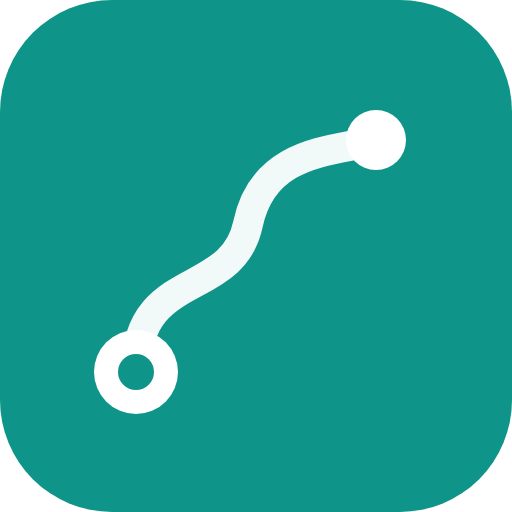
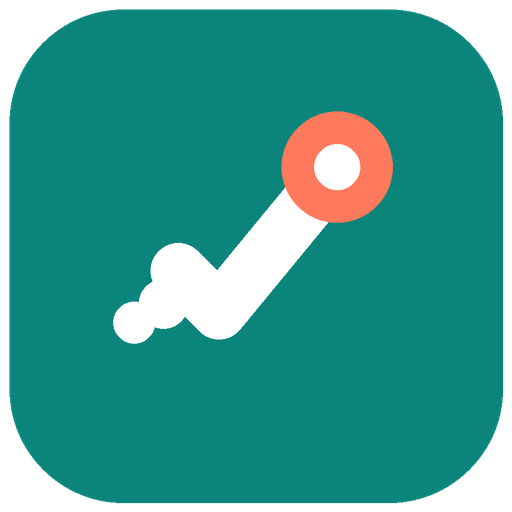
v40: ícono de la app y nombre "Control Driver"
- Nuevo ícono en las 5 resoluciones y las 3 formas de Android (clásico, redondo, adaptativo);
  color fijo (verde de marca), no depende del tema en vivo
- El nombre bajo el ícono pasa de "Rutas-A" a "Control Driver" (strings.xml, capacitor.config.ts);
  el paquete pe.rutasa.app no cambia, para no perder los datos ya instalados
- Todo el texto de la app que el driver lee también dice "Control Driver" (Ajustes, bloqueo,
  PDF, respaldo, "Cargar capturas", "Salir de la app")
- El APK entregado pasa a llamarse Control-Driver-vN.apk

Changed region(s): [[0.1562, 0.1875, 0.8125, 0.8125], [0.0, 0.0, 1.0, 1.0]]

diff --git a/src/app/(app)/ajustes/page.tsx b/src/app/(app)/ajustes/page.tsx
@@ -73,7 +73,7 @@ export default function PaginaAjustes() {
     marcarAbierto();
     setPin("");
     setRepetir("");
-    setMensaje("Listo. La próxima vez que abras Rutas-A te pedirá el PIN.");
+    setMensaje("Listo. La próxima vez que abras Control Driver te pedirá el PIN.");
   }
 
   return (
@@ -170,7 +170,7 @@ export default function PaginaAjustes() {
                 type="button"
                 className="boton-sec"
                 onClick={async () => {
-                  const ok = await activarHuella("Rutas-A");
+                  const ok = await activarHuella("Control Driver");
                   setMensaje(
                     ok
                       ? "Huella activada. El PIN sigue funcionando como respaldo."
@@ -428,7 +428,7 @@ function SeccionSalir() {
       setMensaje("Esto solo cierra la aplicación instalada, no esta pestaña del navegador.");
       return;
     }
-    if (!confirm("¿Seguro que quieres salir de Rutas-A?")) return;
+    if (!confirm("¿Seguro que quieres salir de Control Driver?")) return;
     const { App } = await import("@capacitor/app");
     await App.exitApp();
   }
@@ -441,7 +441,7 @@ function SeccionSalir() {
         </span>
         <div>
           <h3 className="text-lg">Salir de la app</h3>
-          <p className="text-sm text-tinta-2">Cierra Rutas-A del todo. Tus datos se quedan igual.</p>
+          <p className="text-sm text-tinta-2">Cierra Control Driver del todo. Tus datos se quedan igual.</p>
         </div>
       </div>
       <button type="button" onClick={() => void pedirSalir()} className="boton-secundario self-start">
@@ -466,7 +466,7 @@ function SeccionVersion() {
   return (
     <section className="tarjeta flex items-center justify-between gap-3">
       <div className="flex flex-col">
-        <h3 className="text-lg">Rutas-A</h3>
+        <h3 className="text-lg">Control Driver</h3>
         <span className="text-sm text-tinta-2">
           {datos ? `Versión ${datos.version}` : "…"}
         </span>

diff --git a/src/components/ServicioPWA.tsx b/src/components/ServicioPWA.tsx
@@ -127,7 +127,7 @@ export function ServicioPWA() {
       {hayVersionNueva && (
         <div className="pointer-events-auto flex w-full max-w-md items-center gap-3 rounded-btn bg-acento-suave px-4 py-3 text-sm text-acento-tinta shadow-alta">
           <Check className="size-[18px] shrink-0" />
-          <p className="flex-1">Hay una versión nueva de Rutas-A.</p>
+          <p className="flex-1">Hay una versión nueva de Control Driver.</p>
           <button
             type="button"
             onClick={() => void actualizar()}
@@ -141,7 +141,7 @@ export function ServicioPWA() {
       {instalador && !instalarCerrado && (
         <div className="pointer-events-auto flex w-full max-w-md items-center gap-3 rounded-btn bg-sup px-4 py-3 text-sm shadow-alta">
           <Subir className="size-[18px] shrink-0 text-acento" />
-          <p className="flex-1">Instala Rutas-A para abrirla como una app.</p>
+          <p className="flex-1">Instala Control Driver para abrirla como una app.</p>
           <button
             type="button"
             onClick={() => void instalar()}

diff --git a/src/components/SeccionRespaldo.tsx b/src/components/SeccionRespaldo.tsx
@@ -54,7 +54,7 @@ function BloqueCrear() {
       const { clientesEnRespaldo } = await leerAjustesDeComandas();
       const respaldo = await crearRespaldo({ incluirClientes: clientesEnRespaldo });
       const contenido = JSON.stringify(respaldo, null, 2);
-      const archivo = `rutas-a-respaldo-${hoyEnLima()}.json`;
+      const archivo = `control-driver-respaldo-${hoyEnLima()}.json`;
 
       if (!Capacitor.isNativePlatform()) {
         throw new Error("Crear y compartir el respaldo solo funciona en la app instalada.");
@@ -71,7 +71,7 @@ function BloqueCrear() {
       });
       const { uri } = await Filesystem.getUri({ path: archivo, directory: Directory.Cache });
 
-      await Share.share({ title: "Respaldo de Rutas-A", url: uri });
+      await Share.share({ title: "Respaldo de Control Driver", url: uri });
       await anotarRespaldoCreado();
       setEstado("reposo");
     } catch (fallo) {

diff --git a/src/components/ExportarEstadisticas.tsx b/src/components/ExportarEstadisticas.tsx
@@ -69,7 +69,7 @@ export function ExportarEstadisticas({
       /* ----------------------------- portada ----------------------------- */
       doc.setFont("helvetica", "bold");
       doc.setFontSize(22);
-      doc.text("Rutas-A", margen, 28);
+      doc.text("Control Driver", margen, 28);
 
       doc.setFont("helvetica", "normal");
       doc.setFontSize(12);
@@ -151,7 +151,7 @@ export function ExportarEstadisticas({
         doc.text(`Página ${i} de ${paginas}`, anchoPagina - margen, altoPagina - 8, {
           align: "right",
         });
-        doc.text("Rutas-A", margen, altoPagina - 8);
+        doc.text("Control Driver", margen, altoPagina - 8);
       }
 
       setListo(await prepararArchivo(doc.output("blob"), `estadisticas_${desde}_a_${hasta}.pdf`));

diff --git a/src/app/layout.tsx b/src/app/layout.tsx
@@ -114,12 +114,12 @@ const plexMono = IBM_Plex_Mono({
 });
 
 export const metadata: Metadata = {
-  title: { default: "Rutas-A", template: "%s · Rutas-A" },
+  title: { default: "Control Driver", template: "%s · Control Driver" },
   description:
     "Registro diario de rutas y pedidos: sube las capturas, revisa y confirma. El resto es consulta.",
-  applicationName: "Rutas-A",
+  applicationName: "Control Driver",
   manifest: "/manifest.webmanifest",
-  appleWebApp: { capable: true, title: "Rutas-A", statusBarStyle: "default" },
+  appleWebApp: { capable: true, title: "Control Driver", statusBarStyle: "default" },
   formatDetection: { telephone: false },
   // La app es privada: nada de esto debe indexarse.
   robots: { index: false, follow: false },

diff --git a/src/components/CargarCapturas.tsx b/src/components/CargarCapturas.tsx
@@ -39,7 +39,7 @@ export function CargarCapturas({
       <p className="text-xs text-tinta-3">
         Son las capturas de la app de la tienda, con tus rutas y pedidos. Cada una se guarda en el
         día que dice{dia ? `; las que no lo digan, el ${nombreDelDia(dia)} ${Number(dia.slice(8))}` : ""}.
-        También puedes compartirlas a Rutas-A desde la galería. Máximo {TOPE_DE_CAPTURAS} por carga.
+        También puedes compartirlas a Control Driver desde la galería. Máximo {TOPE_DE_CAPTURAS} por carga.
       </p>
     </div>
   );

diff --git a/src/app/(app)/compartir/Contenido.tsx b/src/app/(app)/compartir/Contenido.tsx
@@ -72,7 +72,7 @@ export function Contenido() {
         <>
           <Aviso tono="atento" titulo="No llegó ninguna captura">
             <p>
-              Abre la galería, selecciona las capturas del día, toca Compartir y elige Rutas-A. Si
+              Abre la galería, selecciona las capturas del día, toca Compartir y elige Control Driver. Si
               acabas de instalar la app, puede que Android tarde un momento en ofrecerla.
             </p>
           </Aviso>

diff --git a/src/components/Armazon.tsx b/src/components/Armazon.tsx
@@ -127,7 +127,7 @@ function ArmazonInterno({
         >
           <div className="flex items-center gap-2 px-3 pt-2 pb-4">
             <Auto vehiculo={vehiculo} animado className="w-14 shrink-0" />
-            <strong className="font-display text-2xl font-bold tracking-tight">Rutas-A</strong>
+            <strong className="font-display text-2xl font-bold tracking-tight">Control Driver</strong>
           </div>
 
           <nav className="flex flex-col gap-0.5">

diff --git a/src/components/SplashDeMarca.tsx b/src/components/SplashDeMarca.tsx
@@ -68,7 +68,7 @@ export function SplashDeMarca() {
  */
 function IconoApp({ className }: { className?: string }) {
   return (
-    <svg className={className} viewBox="0 0 100 100" role="img" aria-label="Rutas-A">
+    <svg className={className} viewBox="0 0 100 100" role="img" aria-label="Control Driver">
       <defs>
         <linearGradient id="splash-marca-degradado" x1="0" y1="0" x2="1" y2="1">
           <stop offset="0" className="splash-marca-parada-a" />

diff --git a/src/components/HojaDePedido.tsx b/src/components/HojaDePedido.tsx
@@ -1093,7 +1093,7 @@ function TabEvidencia({
 
       <Aviso tono="atento" titulo="Un pedido tiene como mucho una foto">
         <p>
-          Sirve de respaldo si la tienda discute ese pedido. Se guarda en el almacenamiento privado de Rutas-A:
+          Sirve de respaldo si la tienda discute ese pedido. Se guarda en el almacenamiento privado de Control Driver:
           no sale en la galería, y ninguna otra app la ve.
         </p>
       </Aviso>

diff --git a/src/components/BloqueoApp.tsx b/src/components/BloqueoApp.tsx
@@ -83,7 +83,7 @@ function Candadazo() {
         </span>
 
         <div className="text-center">
-          <h1 className="text-2xl">Rutas-A está bloqueado</h1>
+          <h1 className="text-2xl">Control Driver está bloqueado</h1>
           <p className="mt-1 text-sm text-tinta-2">Escribe tu PIN para continuar.</p>
         </div>
 

diff --git a/capacitor.config.ts b/capacitor.config.ts
@@ -2,7 +2,7 @@ import type { CapacitorConfig } from '@capacitor/cli';
 
 const config: CapacitorConfig = {
   appId: 'pe.rutasa.app',
-  appName: 'Rutas-A',
+  appName: 'Control Driver',
   webDir: 'out'
 };
 
